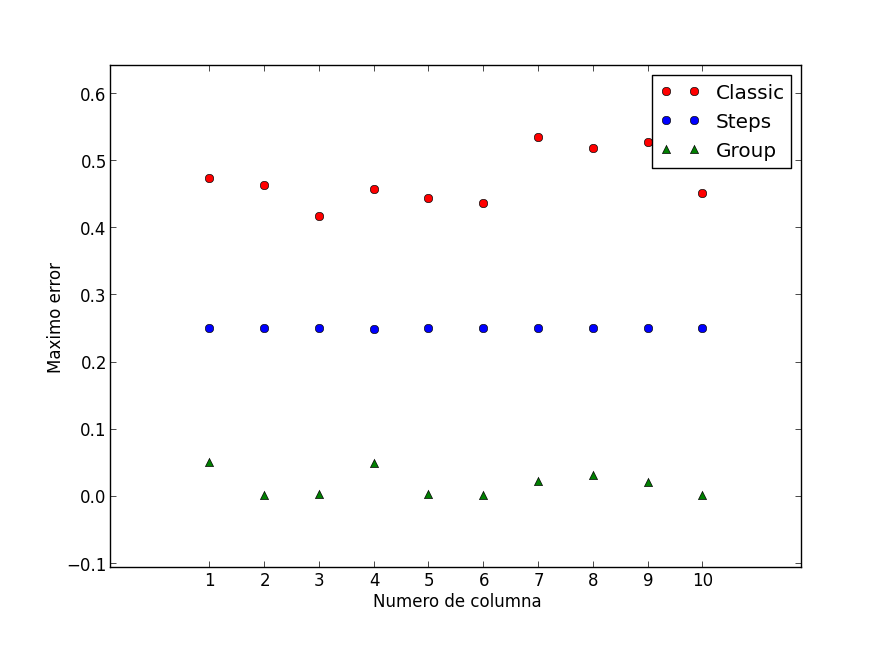
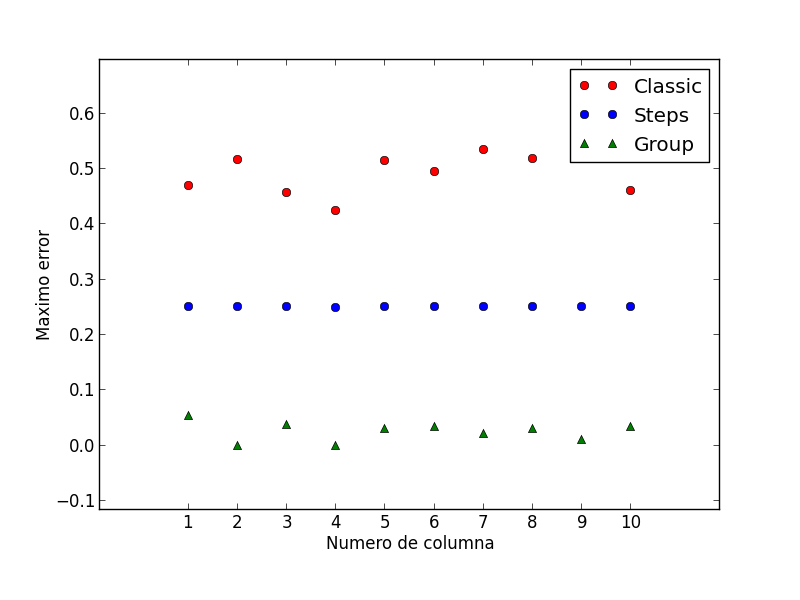
Graficos actualizados.
Arreglado codigo en estimator group.

diff --git a/tp2/src/estimator_group.py b/tp2/src/estimator_group.py
@@ -16,7 +16,7 @@ class EstimatorGroup(estimators.Estimator):
     self.min_value, self.max_value, self.total_elem = c.execute(
         "SELECT min({0}), max({0}), count(*) FROM {1}".format(self.column, self.table)).fetchone()
 
-    self.bucket = int(math.floor((self.max_value - self.min_value) / self.parameter['size']))
+    self.bucket = int(math.ceil((self.max_value - self.min_value) / float(self.parameter['size'])))
     prev_value = self.min_value
     next_value = int(prev_value)
     total = 0

diff --git a/tp2/src/ejb3_normal.py b/tp2/src/ejb3_normal.py
@@ -21,7 +21,7 @@ for n in range(1, 11):
   cEstimator = ClassicHistogram(db_name, table, column, param)
   rEstimator = RealHistogram(db_name, table, column, param)
   sEstimator = DistributionSteps(db_name, table, column, param)
-  gEstimator = EstimatorGroup(db_name, table, column, {'size': param, 'threshold': 0.018})
+  gEstimator = EstimatorGroup(db_name, table, column, {'size': param, 'threshold': 0.03})
 
   points = []
   classic_errors = []
